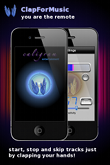
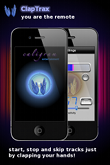
updated site for new description and name

Changed region(s): [[0.1636, 0.0303, 0.6273, 0.0909]]

diff --git a/magic-table/website/claptrax.html b/magic-table/website/claptrax.html
@@ -13,7 +13,7 @@ Released   : 20100423
 <html xmlns="http://www.w3.org/1999/xhtml">
 <head>
 <meta http-equiv="content-type" content="text/html; charset=utf-8" />
-<title>ClapForMusic</title>
+<title>ClapTrax</title>
 <link href="style.css" rel="stylesheet" type="text/css" media="screen" />
 <style type="text/css">
 </style>
@@ -36,7 +36,7 @@ Released   : 20100423
 </script>
 <!-- end #header-wrapper -->
 <div id="logo">
-	<h1>ClapForMusic </h1>
+	<h1>ClapTrax </h1>
 	<em> by Caligram</em>
 </div>
 <div id="header">
@@ -69,31 +69,35 @@ Released   : 20100423
 	<div id="page-bgtop">
 		
 		<div id="textContent">
-			<h1>ClapForMusic</h1>
+			<h1>ClapTrax</h1>
 			<br><br>
 			<!-- adsense container -->
 			<div>
 				<div class="post" style="float: left; width:60%;">
-					<h2 class="title">A new app for IPhone, IPod and IPad</h2>
+					<h2 class="title">A new app for IPhone and IPod</h2>
 					<br>
 					<p class="text">
 						<span class="italicBlue">
-							Control your music without a remote control!
+							Walk into a room and start your music playing with a single clap!
 						</span>
-						Just clap your hands to play your music and move through your playlists!
+						Dock your iPhone then control your music from across the room without a remote!
 					</p>
 
 					<p class="text">
-					Access your IPod from the other side of the room, without a remote!
-					Clap once to play or pause your music. Clap twice to move to the next song.
-					Three claps to play the previous song.
-					Turn your phone into the ultimate audio system that will be the envy of all your friends.
+					 Just clap your hands to play your music and skip through your tunes.
+					<br>
+					<br>
+       				Clap once to play or pause your music. Clap twice to move to the next song.
+       				Three claps to play the previous song.
+					<br>
+					<br>
+       				Turn your phone into the ultimate audio system that will be the envy of all your guests!
 					</p>
 
 					<p>
 					(iPod Touch users need a microphone to detects claps)
 					<br>
-					(iPhone and iPod Touch devices require iOS v4.x)
+					Available on iOS 4.1 and above.
 					</p>
 
 					<br>
